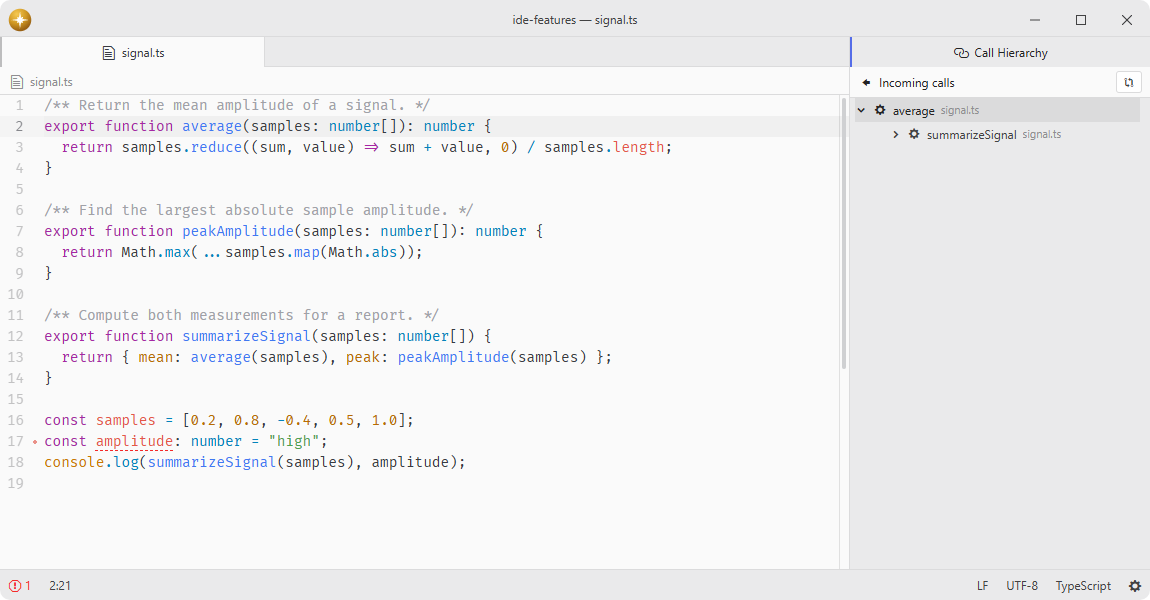
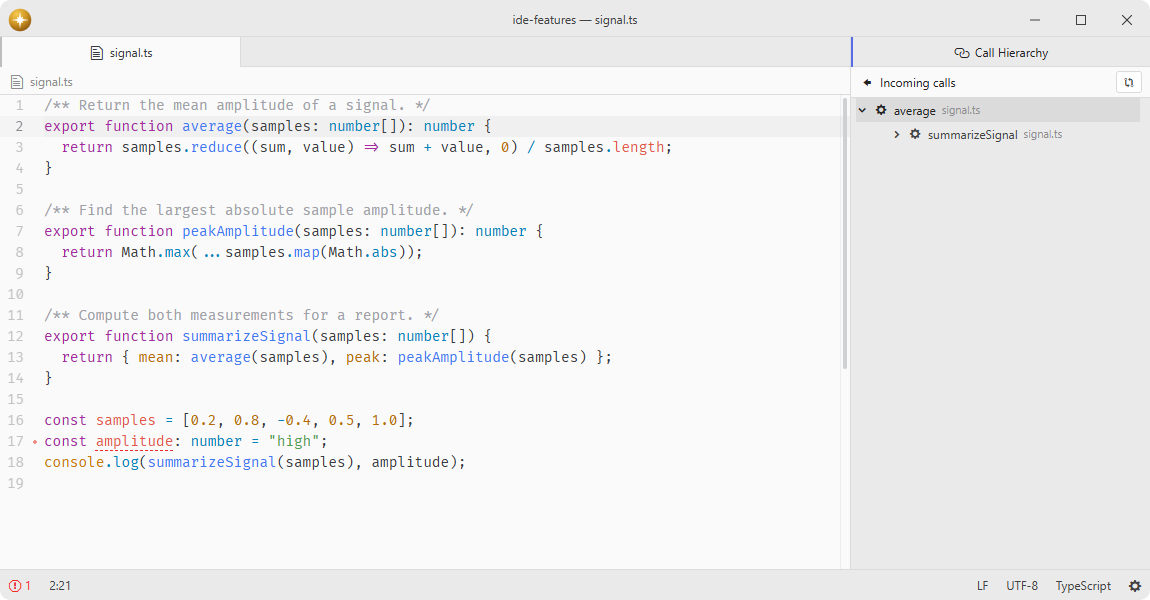
Use a native call hierarchy direction button

diff --git a/lib/hierarchy-view.js b/lib/hierarchy-view.js
@@ -68,8 +68,7 @@ class HierarchyView {
     this.directionLabel.className = "hierarchy-view-direction icon icon-arrow-left";
     this.switchButton = document.createElement("button");
     this.switchButton.type = "button";
-    this.switchButton.className =
-      "hierarchy-view-switch btn btn-xs icon-button icon icon-git-compare";
+    this.switchButton.className = "hierarchy-view-switch btn btn-xs icon icon-git-compare";
     this.switchButton.addEventListener("click", () => this.switchDirection());
     this.header.appendChild(this.directionLabel);
     this.header.appendChild(this.switchButton);
